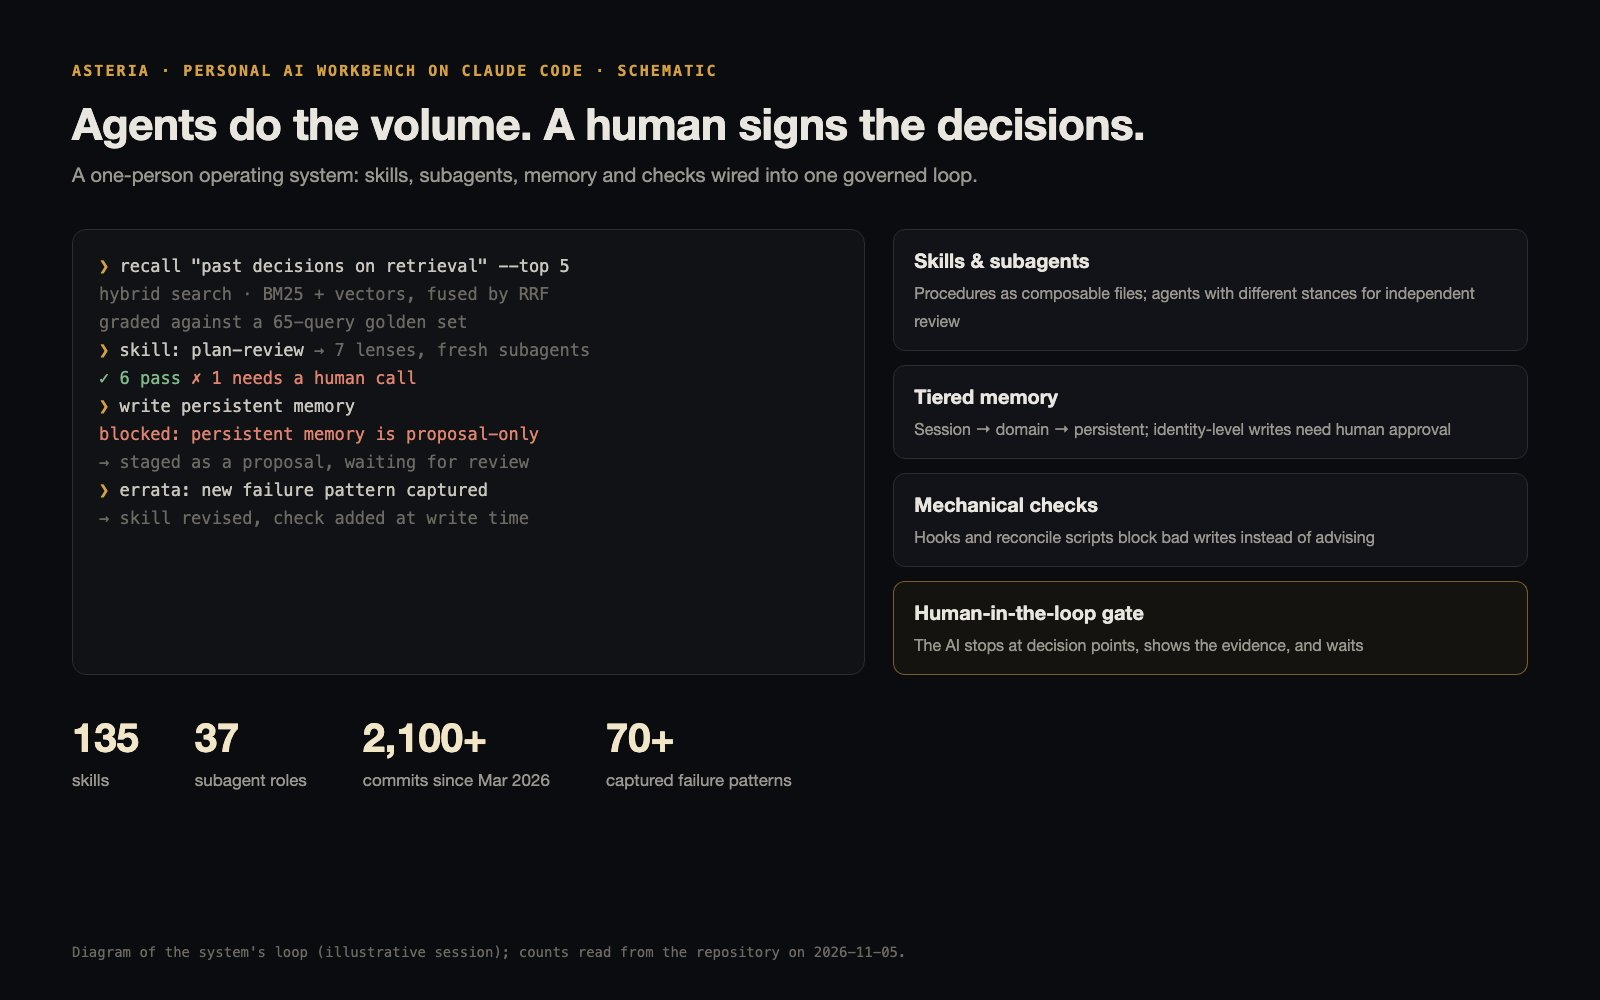
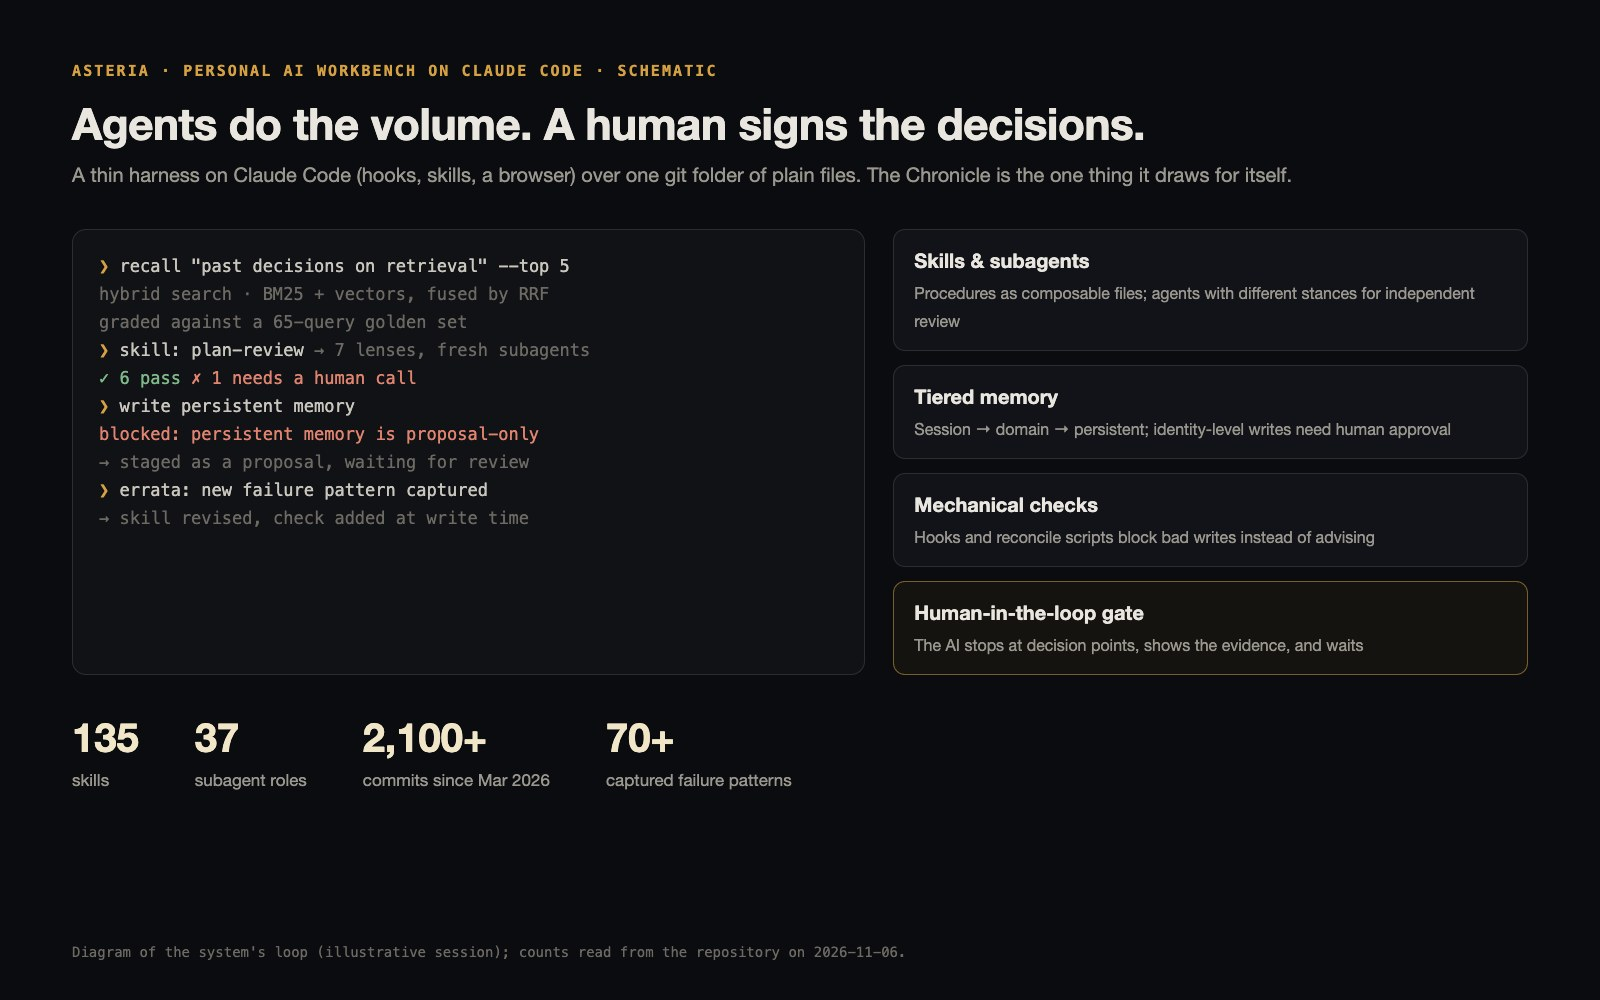
Chronicle card: Asteria's visual layer as its own card (parchment screenshot); Asteria reframed as harness + Chronicle; verify.py checks every demoUrl
- content.js: seventh card 'Chronicle' after Asteria (every AI coding session as a quest; copy from asteria/README and chronicle.html, fictional data on the public page); Asteria description says thin harness on Claude Code, third bullet points to the Chronicle
- assets/screens/chronicle.jpg: live chronicle.html at 1600x1000 in the parchment theme (Austin's choice); asteria.jpg re-rendered with the harness sub-line
- shell-icons.js: 'rocket' hot icon for Chronicle in the desktop left margin (.08,.42), none on phones (phone x false: the six slots beside the name are full); compass/rocket excluded from the wallpaper like the other hot icons
- tools/verify.py: HEAD every demoUrl in content.js, exit 1 on a non-2xx/3xx
- CONTENT.md: Chronicle row, upstream repo + licence column (asteria, shop-skill, ride-compare are MIT), 'when an upstream repo changes' checklist; HANDOFF.md: icon positions and the Chronicle decision

Changed region(s): [[0.0625, 0.155, 0.8125, 0.186]]

diff --git a/shared/content.js b/shared/content.js
@@ -51,16 +51,31 @@ export const PROJECTS = [
   { id: 'asteria', name: 'Asteria', kicker: 'Personal AI workbench',
     title: 'An operating system where agents do the volume and I sign the decisions',
     impact: '135 skills · 37 subagent roles · 2,100+ commits since March 2026',
-    description: 'My own agent workbench on Claude Code, designed around the questions companies now face with agents: what an agent may do alone, what needs human sign-off, and how mistakes become checks.',
+    description: 'My own agent workbench on Claude Code: a thin harness (hooks, skills, a browser) over one git folder of plain files, designed around the questions companies now face with agents: what an agent may do alone, what needs human sign-off, and how mistakes become checks.',
     details: [
       'Tiered memory: persistent writes are proposals a human approves',
-      'Hybrid retrieval (BM25 + vectors) graded against a 65-query golden set',
       'Every repeated failure becomes an errata entry and a write-time check (70+ so far)',
+      'Draws one thing for itself: the Chronicle, where every session is a quest (next card)',
     ],
     tech: ['Claude Code', 'Python', 'MCP', 'SQLite FTS5 + vectors'],
     year: '2026', role: 'Designer & sole builder',
     image: 'assets/screens/asteria.jpg', imageNote: 'Schematic of the loop; counts read from the repository.',
-    demoUrl: 'https://doriru89.github.io/asteria/demo.html' },   // 2026-11-06: public shell repo github.com/doriru89/asteria
+    demoUrl: 'https://doriru89.github.io/asteria/demo.html' },   // 2026-11-06: public shell repo github.com/doriru89/asteria; reframed as harness + Chronicle the same night the Chronicle page shipped
+
+  // 2026-11-06 Austin: the Chronicle is its own card, set apart from Asteria, because it is the visual for AI coding sessions. Copy from asteria/README.md and chronicle.html (fictional data on the public page).
+  { id: 'chronicle', name: 'Chronicle', kicker: "Asteria's visual layer · every AI coding session as a quest",
+    title: 'A scroll where every coding session is a quest, and side quests branch off and merge back',
+    impact: 'One star per session, sized by prompts · questlines as lanes · influence edges between sessions · growth replay',
+    description: 'The one thing Asteria draws for itself. Each session (Claude Code, Codex) leaves a card and a ledger line; the Chronicle reads only those files and draws them as a scroll: main quests as lanes, merges as rings, four kinds of influence between sessions, and a Quest Log that keeps what happened apart from a rolling-wave future.',
+    details: [
+      'Any document leads back to the conversation that made it: cards, briefs and the ledger are plain files appended by hooks',
+      'Side quests have a lifecycle (proposed → live → merged / closed) and carry a context capsule into the new session',
+      'One HTML file, no build step; the public page runs on fictional data',
+    ],
+    tech: ['Vanilla JS', 'SVG + canvas', 'JSONL ledger', 'Claude Code hooks'],
+    year: '2026', role: 'Designer & sole builder',
+    image: 'assets/screens/chronicle.jpg', imageNote: 'Screenshot of the public page (fictional data).',
+    demoUrl: 'https://doriru89.github.io/asteria/chronicle.html' },
 
   // 2026-11-06: fifth card — the purchase-decision skill, public at github.com/doriru89/shop-skill (Austin named it WiseShopper; the command stays /shop)
   { id: 'shop', name: 'WiseShopper', kicker: 'Open-source Claude Code skill · maps the whole market before it picks',

diff --git a/shared/shell-icons.js b/shared/shell-icons.js
@@ -28,7 +28,7 @@ export const ICONS = {
 };
 // project id -> icon + where it lives (fractions of the viewport; kept in the side margins, clear of the hero copy)
 // 2026-11-06 Austin: CareCost ↔ Asteria and Lenovo ↔ Artopath swapped (CareCost + Lenovo up top, Asteria + Artopath by the bear)
-const HOT = { carecost: ['cross', .08, .24], aios: ['terminal', .1, .68], lenovo: ['laptop', .9, .22], asteria: ['terminal', .1, .68], artopath: ['graph', .9, .64], shop: ['compass', .5, .14, .5, .56], ridecompare: ['fold', .9, .43, .5, .15] };   // ridecompare (2026-11-06): desktop right margin between Lenovo and Artopath (the pixel heart's old slot); phone: top band under the nav, centred   // shop: centred between the nav and the name; phone (4th/5th = x,y): the lower band, between Asteria and Artopath
+const HOT = { carecost: ['cross', .08, .24], aios: ['terminal', .1, .68], lenovo: ['laptop', .9, .22], asteria: ['terminal', .1, .68], artopath: ['graph', .9, .64], shop: ['compass', .5, .14, .5, .56], ridecompare: ['fold', .9, .43, .5, .15], chronicle: ['rocket', .08, .42, false] };   // chronicle (2026-11-06): desktop left margin between CareCost and the invader sprite (.52); on phones every slot beside the name is taken, so no hero icon there   // ridecompare (2026-11-06): desktop right margin between Lenovo and Artopath (the pixel heart's old slot); phone: top band under the nav, centred   // shop: centred between the nav and the name; phone (4th/5th = x,y): the lower band, between Asteria and Artopath
 
 // 2026-11-05 Austin: four more, more visible, pixel style. Placeholder slots for projects he will add later.
 // 10x10 sprites: '#' = colour A, '+' = colour B, '.' = empty. Rendered as crisp SVG rects.
@@ -50,7 +50,7 @@ export function mountIconField(el, { projects = [], colors = [], onOpen = () => 
   const layer = document.createElement('div');
   layer.className = 'icon-field__layer';
   el.appendChild(layer);
-  const names = Object.keys(ICONS).filter(n => !['cross', 'laptop', 'terminal', 'graph', 'fold'].includes(n));
+  const names = Object.keys(ICONS).filter(n => !['cross', 'laptop', 'terminal', 'graph', 'fold', 'compass', 'rocket'].includes(n));
   const svg = (n, sw = 1.5) => `<svg viewBox="0 0 24 24" fill="none" stroke="currentColor" stroke-width="${sw}" stroke-linecap="round" stroke-linejoin="round" aria-hidden="true">${ICONS[n]}</svg>`;
   let hots = [];
 
@@ -69,6 +69,7 @@ export function mountIconField(el, { projects = [], colors = [], onOpen = () => 
     hots = [];
     projects.forEach((p, j) => {
       const h = HOT[p.id]; if (!h) return;
+      if (mobile && h[3] === false) return;   // phone x `false`: no hero icon on phones (the card is still in the box); seven labels do not fit beside the name (2026-11-06)
       const b = document.createElement('button');
       const s = mobile ? 30 : 40;
       const hx = mobile && h[3] != null ? h[3] : h[1];

diff --git a/assets/screens/src/asteria.html b/assets/screens/src/asteria.html
@@ -10,7 +10,7 @@
 </style></head><body>
 <div class="k">Asteria · personal AI workbench on Claude Code · schematic</div>
 <h1>Agents do the volume. A human signs the decisions.</h1>
-<div class="sub">A one-person operating system: skills, subagents, memory and checks wired into one governed loop.</div>
+<div class="sub">A thin harness on Claude Code (hooks, skills, a browser) over one git folder of plain files. The Chronicle is the one thing it draws for itself.</div>
 <div class="grid">
 <div class="term">
 <div><span class="p">❯</span> recall "past decisions on retrieval" --top 5</div>
@@ -31,5 +31,5 @@
 <div class="card gate"><b>Human-in-the-loop gate</b><span>The AI stops at decision points, shows the evidence, and waits</span></div>
 </div></div>
 <div class="stats"><div class="s"><b>135</b><span>skills</span></div><div class="s"><b>37</b><span>subagent roles</span></div><div class="s"><b>2,100+</b><span>commits since Mar 2026</span></div><div class="s"><b>70+</b><span>captured failure patterns</span></div></div>
-<div class="note">Diagram of the system's loop (illustrative session); counts read from the repository on 2026-11-05.</div>
+<div class="note">Diagram of the system's loop (illustrative session); counts read from the repository on 2026-11-06.</div>
 </body></html>

diff --git a/tools/verify.py b/tools/verify.py
@@ -7,19 +7,40 @@ Writes tools/out/<size>-<view>.png. Exit code 1 on any page error or a failed ch
 """
 import asyncio
 import os
+import re
 import sys
+import urllib.request
 
 from playwright.async_api import async_playwright
 
 URL = sys.argv[1] if len(sys.argv) > 1 else "http://localhost:8777/"
 CHROME = "/Applications/Google Chrome.app/Contents/MacOS/Google Chrome"
 SIZES = [(1440, 900, 2), (1280, 720, 1), (390, 844, 3)]
-OUT = os.path.join(os.path.dirname(os.path.abspath(__file__)), "out")
+ROOT = os.path.dirname(os.path.dirname(os.path.abspath(__file__)))
+OUT = os.path.join(ROOT, "tools", "out")
+
+
+def check_links() -> bool:
+    """Every demoUrl in shared/content.js must answer 2xx/3xx. The cards are copies of their repos, not views;
+    this is the one drift a script can catch (a demo whose host was never enabled, a renamed repo)."""
+    src = open(os.path.join(ROOT, "shared", "content.js"), encoding="utf-8").read()
+    urls = re.findall(r"demoUrl:\s*'([^']+)'", src)
+    ok = True
+    for u in urls:
+        try:
+            req = urllib.request.Request(u, method="HEAD", headers={"User-Agent": "az-portfolio-verify"})
+            code = urllib.request.urlopen(req, timeout=15).status
+        except Exception as e:  # noqa: BLE001
+            code = getattr(e, "code", None) or str(e)
+        good = isinstance(code, int) and code < 400
+        ok &= good
+        print(f"link {code!s:>4}  {u}")
+    return ok
 
 
 async def main() -> int:
     os.makedirs(OUT, exist_ok=True)
-    failed = False
+    failed = not check_links()
     async with async_playwright() as p:
         browser = await p.chromium.launch(
             executable_path=CHROME, args=["--use-angle=metal", "--enable-gpu", "--ignore-gpu-blocklist"]

diff --git a/CONTENT.md b/CONTENT.md
@@ -8,14 +8,24 @@ Tagline: **"I put AI into the work people already do."** The enterprise evidence
 
 ## Cards, in order
 
-| Card | Kind of evidence | Image | Link |
-|---|---|---|---|
-| Lenovo Seller Platform | employer work, internal platform | schematic (`src/lenovo.html`) | none, on purpose |
-| CareCost | hackathon win, public repo | real screenshot (no patient or doctor names) | GitHub repo |
-| Asteria | personal agent workbench | schematic (`src/asteria.html`) | public shell + demo at doriru89.github.io/asteria |
-| WiseShopper | open-source Claude Code skill (`/shop`) | screenshot of the public demo | GitHub repo |
-| Ride Compare | Android utility, public repo | schematic (`src/ridecompare.html`) | GitHub repo |
-| Artopath | personal media library | real screenshot | none (repo private) |
+| Card | Kind of evidence | Image | Link | Upstream repo · licence |
+|---|---|---|---|---|
+| Lenovo Seller Platform | employer work, internal platform | schematic (`src/lenovo.html`) | none, on purpose | — |
+| CareCost | hackathon win, public repo | real screenshot (no patient or doctor names) | GitHub repo | `doriru89/Carecost` · no licence file |
+| Asteria | personal agent workbench (harness on Claude Code) | schematic (`src/asteria.html`) | public shell + demo at doriru89.github.io/asteria | `doriru89/asteria` · MIT |
+| Chronicle | Asteria's visual layer: every AI coding session as a quest; its own card on purpose (Austin, 2026-11-06) | screenshot of the public page (fictional data) | doriru89.github.io/asteria/chronicle.html | `doriru89/asteria` · MIT |
+| WiseShopper | open-source Claude Code skill (`/shop`) | screenshot of the public demo | GitHub repo (no Pages yet, so the demo HTML is not viewable live) | `doriru89/shop-skill` · MIT |
+| Ride Compare | Android utility, public repo | schematic (`src/ridecompare.html`) | GitHub repo | `doriru89/ride-compare` · MIT |
+| Artopath | personal media library | real screenshot | none (repo private) | private |
+
+## When an upstream repo changes
+
+The cards are copies, not views: nothing updates them. After a push to `asteria`, `shop-skill` or `ride-compare`, check the card's
+
+- **framing words** against the repo's README first paragraph (Asteria drifted from "operating system" to "harness + Chronicle" within one evening);
+- **screenshot** if the demo page changed (`tools/render-schematic.py` for drawings; a 1600×1000 headless screenshot for live pages);
+- **counts** read from the repo, never from memory;
+- **demoUrl** still answers 200 (`tools/verify.py` checks this).
 
 ## Rules
 

diff --git a/HANDOFF.md b/HANDOFF.md
@@ -36,7 +36,8 @@ One scroll, three scenes:
 - Bear hero with riders; no bear eyes; symmetric nose; riders still once docked. Head size: `HERO_SCALE 1.3`; porthole `--dock: 126px` (phone 75px).
 - Hero camera `(0, 2.9, 8.5)` looking at `(0, 1.9, 0)`: further back for a rounder dome; the head's on-screen width is fixed by `relayout()`, so camera distance does not change size.
 - Scroll plate centred, `bottom: 6vh`, pixel chevrons; touch devices show "SWIPE UP" with chevrons flipped.
-- Project icons always carry their name in an Undertale-style box; positions: CareCost top-left, Lenovo top-right, WiseShopper top-centre (phone: lower band centre), Asteria lower-left, Artopath lower-right, Ride Compare right-middle (phone: top band).
+- Project icons always carry their name in an Undertale-style box; positions: CareCost top-left, Chronicle left-middle (desktop only: on phones the six slots beside the name are full, phone x `false` in `HOT`), Lenovo top-right, WiseShopper top-centre (phone: lower band centre), Asteria lower-left, Artopath lower-right, Ride Compare right-middle (phone: top band).
+- Chronicle is its own card right after Asteria (2026-11-06): it is the visual for AI coding sessions and Austin wants it told apart from the workbench. Asteria's card points to it.
 - **No calling card** next to the porthole (name + email was removed 2026-11-06); contact lives in the nav's Email link and the footer.
 - Profile Box: 5° turn, crank side forward; box fills 88 % of the view height on ≥ 835 px views, easing to 78 % on short views so the crank hint clears the rail; card is 0.78 tall (was 4:3) to fill the window; "Project", never "Reel"; leader reads "<n> PROJECTS · <m> FRAMES"; no "PLAYER 2" wording anywhere (this is for HR).
 - Footer: title "Let's build something together.", lead "AI in the work, people in the pilot seat." (his own phrasing of "keep the human in the pilot seat"; the words "human spark" are jargon to HR and are not used).
